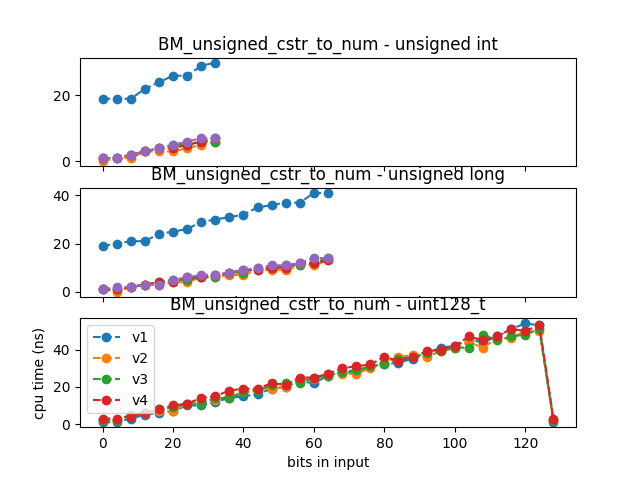
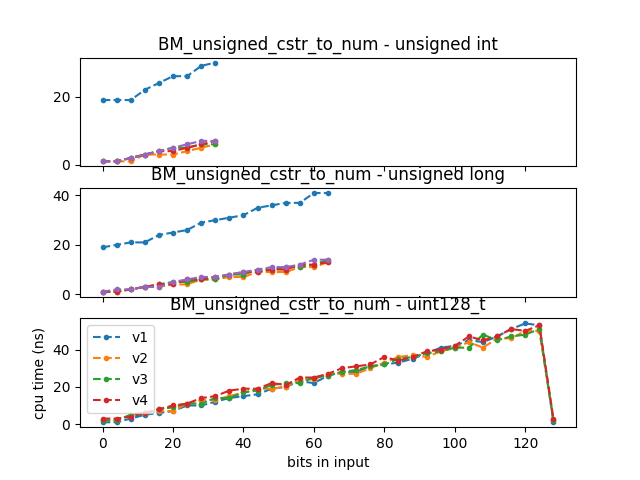
fix plot

diff --git a/tools/plot_results.py b/tools/plot_results.py
@@ -100,14 +100,15 @@ def plot_series(data,row_count,col_count,series_count,series_title, axs):
             arr = point[0].split("/")
             try:
                 y_value = int(point[3]) # cpu time
-                y_values.append(y_value)
-                if len(arr)>1:
-                    x_value = int(arr[1])
-                    x_values.append(x_value)
+                if not y_value == 0:
+                    y_values.append(y_value)
+                    if len(arr)>1:
+                        x_value = int(arr[1])
+                        x_values.append(x_value)
             except ValueError:
                 pass
         if len(x_values)>0 and len(y_values)>0 and len(x_values)==len(y_values):
-            handle, = axs[row_count].plot(np.array(x_values), np.array(y_values), label=series_title, marker='o', linestyle='--')
+            handle, = axs[row_count].plot(np.array(x_values), np.array(y_values), label=series_title, marker='.', linestyle='--')
 
 def main():
     plot_benchmark_results()
